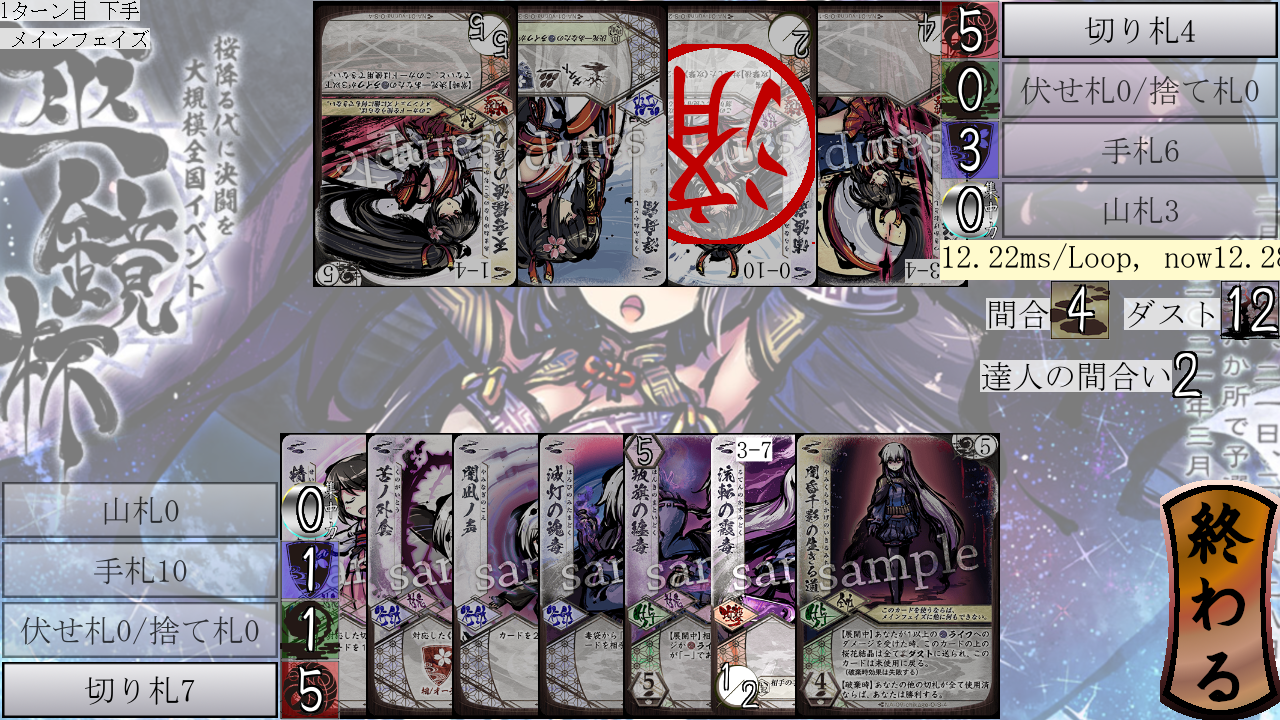
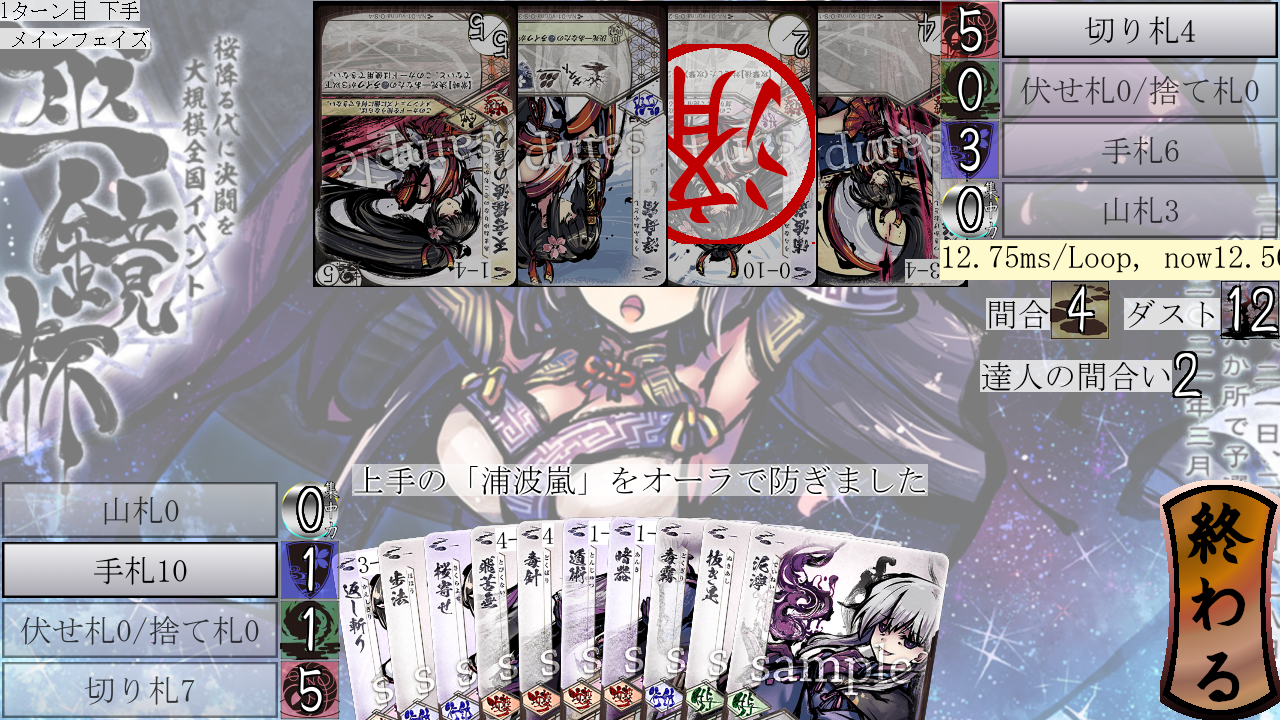
J744:叛旗の纏毒を実装

Changed region(s): [[0.0, 0.5806, 0.7812, 1.0], [0.9688, 0.3361, 1.0, 0.3667], [0.7812, 0.3361, 0.8125, 0.3667]]

diff --git a/mod/ol/play_kougeki/play_kougeki.py b/mod/ol/play_kougeki/play_kougeki.py
@@ -23,6 +23,12 @@ def _open(layer: PipelineLayer, stat: PopStat, code: int) -> None:
     layer.delivery.b_params.during_kirihuda = card.kirihuda
     layer.delivery.b_params.attack_megami = card.megami
     layer.delivery.m_params(hoyuusya).played_kougeki = True
+    print("open", card.name, "kwargs", card.kwargs)
+    if "utikesied" in card.kwargs:
+        popup_message.add(text=f"{side_name(hoyuusya)}の「{card.name}」が"\
+                          "打ち消されました")
+        moderator.pop()
+        return
     upper = uke_cards(card=card, delivery=delivery, hoyuusya=hoyuusya)
     lower = taiou_hudas(card=card, delivery=delivery, hoyuusya=hoyuusya)
     if stat.switch or layer.delivery.b_params.during_taiou:
@@ -68,6 +74,12 @@ def _taioued(layer: PipelineLayer, stat: PopStat, code: int) -> None:
         moderator.pop()
         return
     layer.card = huda.card.taiounize(kougeki, delivery, hoyuusya)
+    print("_taioued", kougeki.name, "kwargs", kougeki.kwargs)
+    if "utikesied" in kougeki.kwargs:
+        popup_message.add(text=f"{side_name(hoyuusya)}の「{kougeki.name}」が"\
+                          "打ち消されました")
+        moderator.pop()
+        return
     layer.card.cond = auto_di
     layer.moderate(stat=PopStat(code=code, switch=True))
 

diff --git a/kaiketus/m09o.py b/kaiketus/m09o.py
@@ -171,9 +171,15 @@ def _taiounize_cfs_s_2(kougeki: Attack, delivery: Delivery, hoyuusya: int) -> At
         taiounized.kwargs["utikesied"] = True
     return taiounized
 
+def _taiounize_s_2(kougeki: Card, delivery: Delivery, hoyuusya: int) -> Card:
+    taiounized = copy(kougeki)
+    if kougeki.aura_bar(delivery, hoyuusya) or kougeki.life_bar(delivery, hoyuusya):
+        taiounized.kwargs["utikesied"] = True
+    return taiounized
+
 s_2 = Card(megami=MG_TIKAGE, img=img_card("o_s_2"), name="叛旗の纏毒", cond=auto_di, type=CT_HUYO,
     osame=int_di(5), cfs=[AttackCorrection(name="叛旗の纏毒", cond=enemy_cf, taiounize=_taiounize_cfs_s_2)],
-    taiou=True, kirihuda=True, flair=int_di(2))
+    taiou=True, taiounize=_taiounize_s_2, kirihuda=True, flair=int_di(2))
 
 s_3 = Card(megami=MG_TIKAGE, img=img_card("o_s_3"), name="流転の霞毒", cond=auto_di, type=CT_KOUGEKI,
     aura_damage_func=int_di(1), life_damage_func=int_di(2), maai_list=dima_di(3, 7),

diff --git a/mod/card/card.py b/mod/card/card.py
@@ -106,7 +106,6 @@ class Card():
 
     def maai_cond(self, delivery: Delivery, hoyuusya: int) -> bool:
         return self.maai_list(delivery, hoyuusya)[delivery.b_params.maai]
-        # return self.maai_list(delivery, hoyuusya)[delivery.ouka_count(hoyuusya=hoyuusya, is_mine=True, utuwa_code=UC_MAAI)]
 
     def aura_damage(self, delivery: Delivery, hoyuusya: int) -> int | None:
         return None if self.aura_bar(delivery, hoyuusya) else self.aura_damage_func(delivery, hoyuusya)
